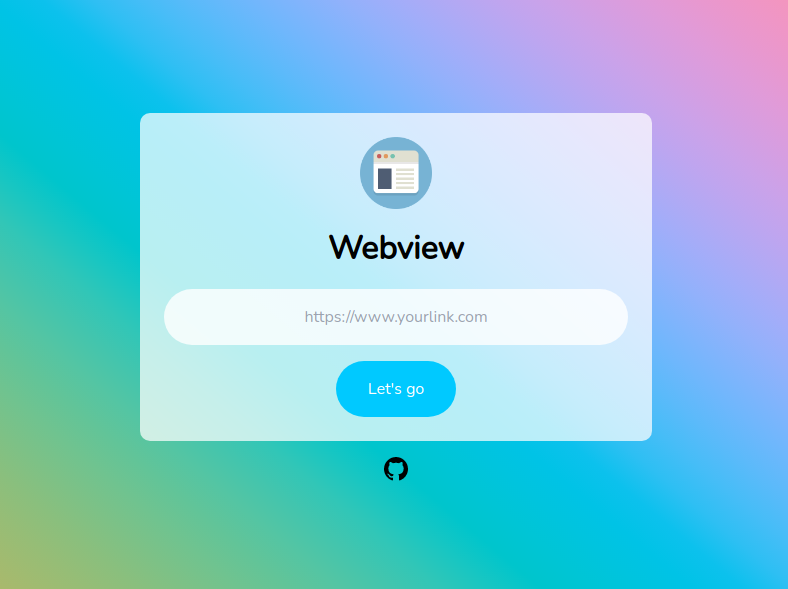
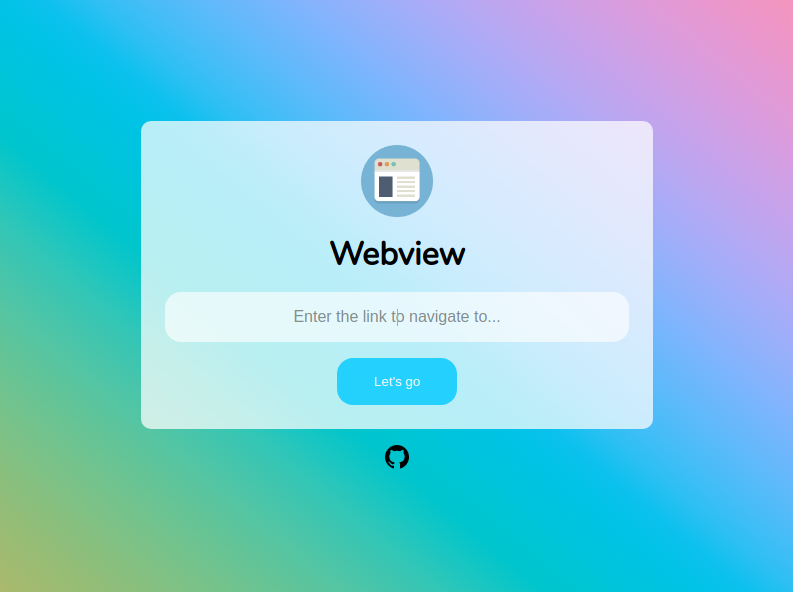
feat: Adiciona tratamento para url inválida.

Changed region(s): [[0.1827, 0.2139, 0.8528, 0.8251], [0.1827, 0.1834, 0.8223, 0.3667], [0.3959, 0.3973, 0.6091, 0.4584]]

diff --git a/assets/css/layout.css b/assets/css/layout.css
@@ -11,8 +11,6 @@
   padding: 0;
   outline: none;
   border: 0;
-  font-size: 100%;
-  font: inherit;
   vertical-align: baseline;
   box-sizing: border-box;
   text-decoration: none;
@@ -23,6 +21,7 @@ body {
   background-image: linear-gradient(40deg, #acb86b 0, #a1bb70 3.33%, #96bd76 6.67%, #8abf7d 10%, #7dc186 13.33%, #70c38f 16.67%, #62c498 20%, #54c5a3 23.33%, #43c5ad 26.67%, #31c6b7 30%, #18c6c2 33.33%, #00c5cc 36.67%, #00c5d5 40%, #00c4de 43.33%, #00c3e6 46.67%, #0cc1ed 50%, #2ebff3 53.33%, #46bdf7 56.67%, #5bbafa 60%, #6eb7fc 63.33%, #80b4fc 66.67%, #92b1fb 70%, #a2adf9 73.33%, #b1a9f4 76.67%, #bfa5ef 80%, #cba2e9 83.33%, #d69ee1 86.67%, #e09bd9 90%, #e898cf 93.33%, #ef96c6 96.67%, #f495bc 100%);
   font-family: 'Nunito', sans-serif;
   list-style-type: none;
+  font-size: 100%;
 }
 
 .wrapper {
@@ -56,27 +55,33 @@ body {
 }
 
 .wrapper .content form {
+  display: flex;
+  flex-direction: column;
+  align-items: center;
+  justify-content: center;
   width: 100%;
-  text-align: center;
 }
 
 .wrapper .content form input {
   background-color: var(--input-background);
   padding: 1rem;
   font-size: medium;
-  border-radius: 6.25rem;
+  border-radius: 1rem;
   width: 100%;
   text-align: center;
   color: var(--input-text-color);
+  opacity: 0.8;
 }
 
 .wrapper .content form button {
+  display: block;
   background-color: var(--button-background);
   color: #fff;
   width: 7.5rem;
-  border-radius: 6.25rem;
+  border-radius: 1rem;
   padding: 1rem;
   margin-top: 1rem;
+  opacity: 0.8;
 }
 
 .wrapper footer {
@@ -86,6 +91,12 @@ body {
   flex-direction: column;
   margin-top: 1rem;
   font-size: large;
+}
+
+
+.has-error {
+  color: #ff6e6e;
+  font-weight: 600;
 }
 
 @media screen and (max-width: 720px) {

diff --git a/index.html b/index.html
@@ -5,9 +5,9 @@
     <meta charset="UTF-8">
     <meta http-equiv="X-UA-Compatible" content="IE=edge">
     <meta name="viewport" content="width=device-width, initial-scale=1.0">
+    <meta http-equiv="Content-Security-Policy" content="script-src 'self';">
     <title>Webview</title>
     <link rel="stylesheet" href="./assets/css/layout.css">
-    <script src="https://cdn.tailwindcss.com"></script>
 
 </head>
 
@@ -17,7 +17,8 @@
             <img src="./assets/images/webview.png" alt="" width="72" height="auto">
             <h1 class="title">Webview</h1>
             <form id="form" autocomplete="off">
-                <input id="input_url" name="input_url" type="url" required placeholder="https://www.yourlink.com">
+                <input id="input_url" name="input_url" required placeholder="Enter the link to navigate to...">
+                <span id="message_error" name="message_error" class="has-error"></span>
                 <button id="btn_submit" name="btn_submit" type="submit">Let's go</button>
             </form>
         </div>

diff --git a/assets/js/actions.js b/assets/js/actions.js
@@ -1,5 +1,24 @@
-document.querySelector('#form').addEventListener('submit', (event) => {
+const querySelector = (element) => document.querySelector(element);
+
+querySelector('#form').addEventListener('submit', (event) => {
   event.preventDefault();
-  const url = document.querySelector('#input_url').value;
-  window.location.replace(url);
+  let url = querySelector('#input_url').value;
+
+  const expression =
+    /^(?:http(s)?:\/\/)?[\w.-]+(?:\.[\w\.-]+)+[\w\-\._~:/?#[\]@!\$&'\(\)\*\+,;=.]+$/;
+
+  if (expression.test(url)) {
+    if (!/(http(s?)):\/\//i.test(url)) {
+      url = 'http://' + url;
+    }
+    window.location.replace(url);
+  }
+  querySelector('#message_error').innerHTML = 'Your link is invalid.';
+});
+
+querySelector('#input_url').addEventListener('keyup', (event) => {
+  console.log(!!querySelector('#input_url').value);
+  if (!!querySelector('#input_url').value) {
+    querySelector('#message_error').innerHTML = null;
+  }
 });
